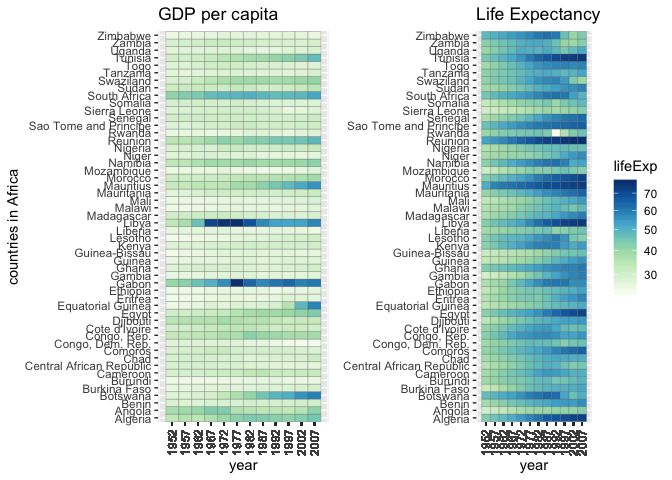
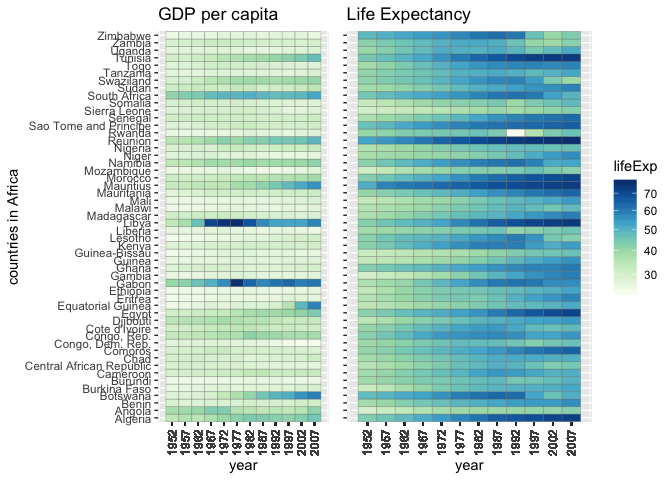
improving plot readability

Changed region(s): [[0.5, 0.0, 0.9062, 1.0]]

diff --git a/hw03-rasiimwe.md b/hw03-rasiimwe.md
@@ -128,7 +128,7 @@ t_mean <- trimmed_mean %>%
 grid.arrange(tableGrob((trimmed_mean)),t_mean,nrow=1,widths = 3:4)
 ```
 
-![](hw03-rasiimwe_files/figure-markdown_github/trimmed%20mean-1.png)
+![](hw03-rasiimwe_files/figure-markdown_github/trimmed_mean-1.png)
 
 The generic function for the [(trimmed) arithmetic mean](https://stat.ethz.ch/R-manual/R-devel/library/base/html/mean.html) is a method of averaging that removes a small designated percentage of the largest and smallest values before calculating the mean. From the above table and plot, we can see and deduce that over the years, the mean life expectancy gradually increased.
 
@@ -355,7 +355,7 @@ a2 <- gapminder %>%
   scale_fill_gradientn(colors = brewer.pal(9, "GnBu"), trans = "sqrt") + 
   theme_gray() +  
   ggtitle("Life Expectancy") +
-  theme(axis.title.y=element_blank())+ #removing y axix label to right plot as the lables on left plot still apply to right = removing redundacy. Here I leave the axis labels for readability but we can also remove them using: axis.text.y=element_blank()
+  theme(axis.title.y=element_blank(),axis.text.y=element_blank())+ #removing y axix label to right plot as the lables on left plot still apply to right = removing redundacy. Here I leave the axis labels for readability but we can also remove them using: axis.text.y=element_blank()
   xlab("year")+
   theme(axis.text.x=element_text(angle=90,hjust=1,vjust=0.5))+ #rotating x lables to make them visible
   scale_x_continuous(breaks=gapminder$year) #calling all years from dataset as breaks
@@ -385,7 +385,8 @@ af1 <- gapminder %>%
   ggtitle("GDP per capita") +
   ylab("countries in Africa") +
   theme(axis.text.x=element_text(angle=90,hjust=1,vjust=0.5))+
-  xlab("year")+theme(legend.position="none")+
+  xlab("year")+
+  theme(legend.position="none")+
   scale_x_continuous(breaks=gapminder$year)
 ```
 
@@ -401,7 +402,7 @@ af2 <- gapminder %>%
   scale_fill_gradientn(colors = brewer.pal(9, "GnBu"), trans = "sqrt") + 
   theme_gray() +  
   ggtitle("Life Expectancy") +
-  theme(axis.title.y=element_blank())+ 
+  theme(axis.title.y=element_blank(),axis.text.y=element_blank())+ 
   xlab("year")+
   theme(axis.text.x=element_text(angle=90,hjust=1,vjust=0.5))+ 
   scale_x_continuous(breaks=gapminder$year) 
@@ -447,7 +448,7 @@ Eur2 <- gapminder %>%
   scale_fill_gradientn(colors = brewer.pal(9, "GnBu"), trans = "sqrt") + 
   theme_gray() +  
   ggtitle("Life Expectancy") +
-  theme(axis.title.y=element_blank())+ 
+  theme(axis.title.y=element_blank(),axis.text.y=element_blank())+ 
   xlab("year")+
   theme(axis.text.x=element_text(angle=90,hjust=1,vjust=0.5))+ 
   scale_x_continuous(breaks=gapminder$year) 
@@ -697,7 +698,7 @@ xtable(meassures_of_spread)
 ```
 
     ## % latex table generated in R 3.5.0 by xtable 1.8-3 package
-    ## % Tue Oct  2 21:00:43 2018
+    ## % Tue Oct  2 21:14:54 2018
     ## \begin{table}[ht]
     ## \centering
     ## \begin{tabular}{rlrrrrrrrr}
